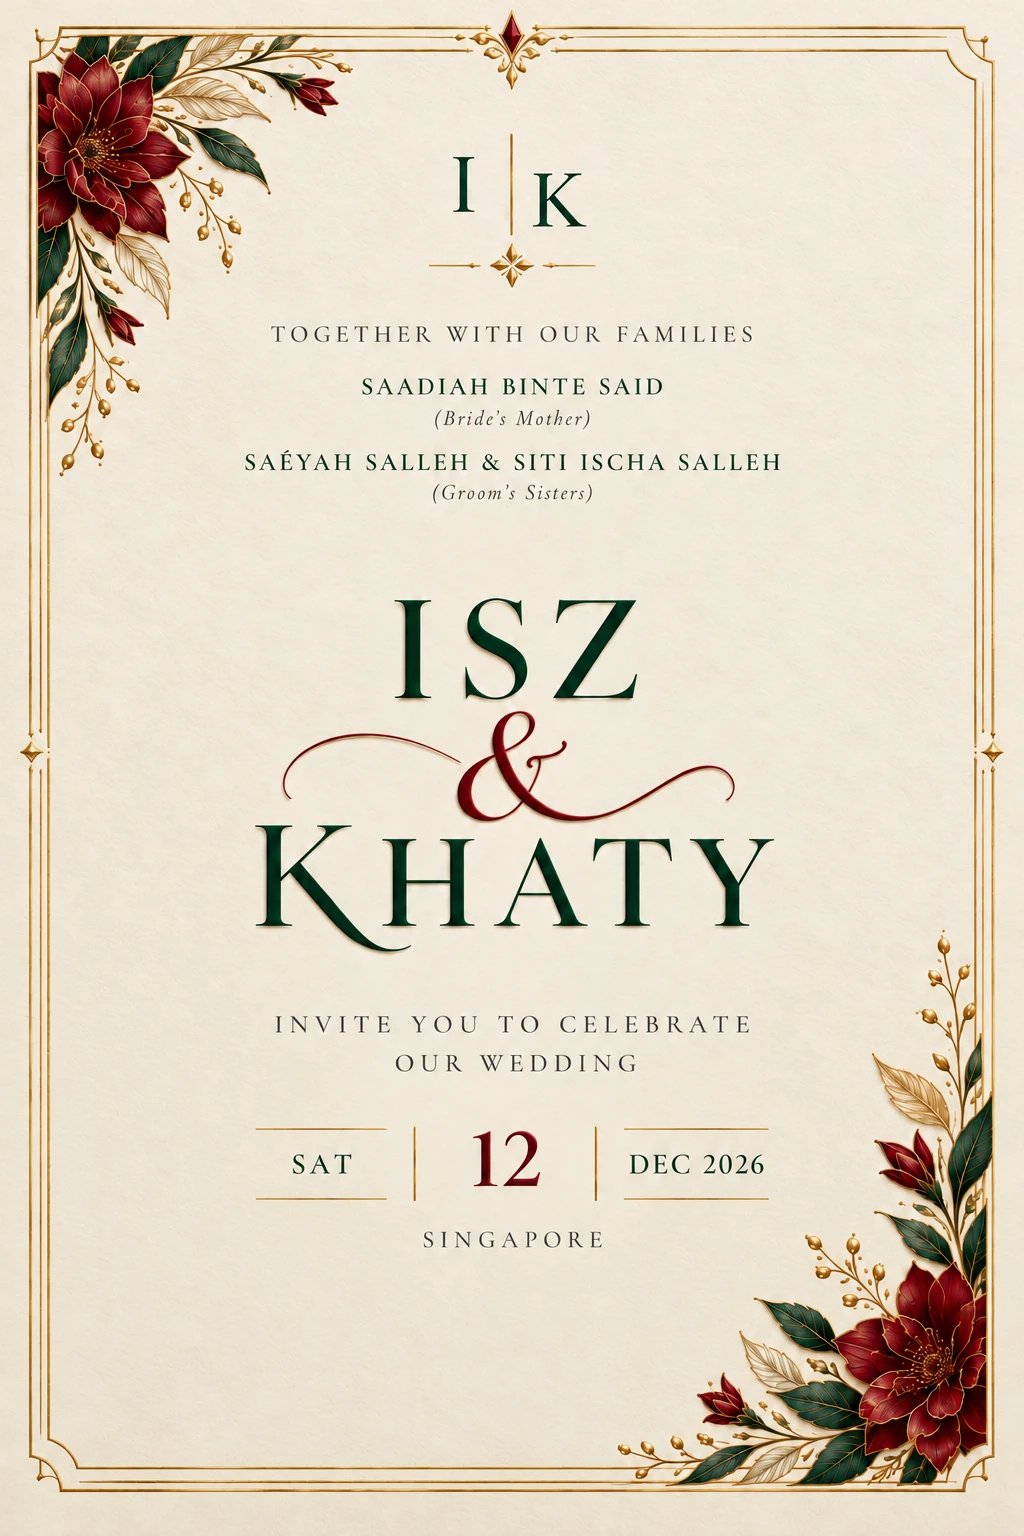
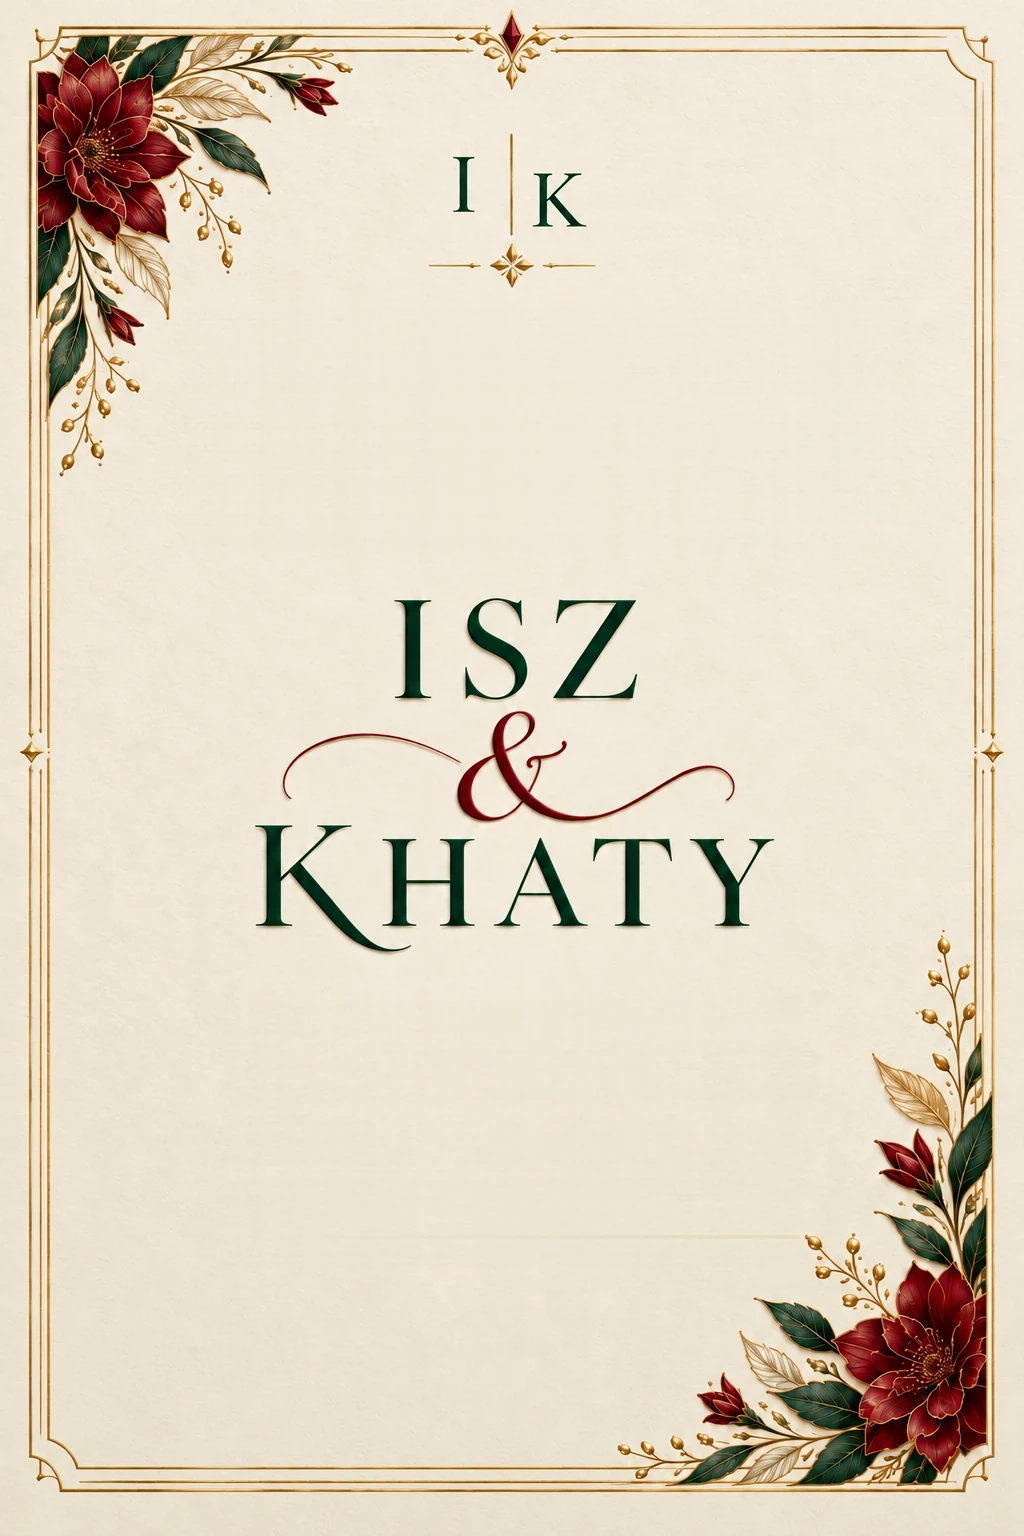
Envelope card: larger wording set in type over a blank card base
The card artwork keeps its frame, flowers, I|K and the big names; the family names,
invitation line, date and place are now real text at a larger size, filled from config.

Claude-Session: https://claude.ai/code/session_01CnhEfaxWDKGB4U8MzmqPVX

diff --git a/css/envelope.css b/css/envelope.css
@@ -468,6 +468,102 @@
   pointer-events: none;
 }
 
+/* The card's wording, set over the blank artwork. Everything is sized in --u, one pixel of the
+   1024 x 1536 artwork at the card's size, so it scales with the card through the whole opening. */
+.card { --u: calc(var(--W) * 0.8 / 1024); }
+.card__text {
+  position: absolute;
+  inset: 0;
+  color: var(--color-ink);
+  font-family: var(--font-body);
+  font-weight: 700;
+  text-transform: uppercase;
+  text-align: center;
+  pointer-events: none;
+}
+.ct {
+  position: absolute;
+  left: calc(var(--u) * 142);
+  width: calc(var(--u) * 740);
+  margin: 0;
+}
+.ct-eyebrow {
+  top: calc(var(--u) * 304);
+  left: calc(var(--u) * 172);
+  width: calc(var(--u) * 680);
+  font-size: calc(var(--u) * 31);
+  line-height: 1.2;
+  letter-spacing: 0.1em;
+  text-indent: 0.1em;
+}
+.ct-families {
+  top: calc(var(--u) * 348);
+  left: calc(var(--u) * 202);
+  width: calc(var(--u) * 620);
+}
+.ct-fam { margin-bottom: calc(var(--u) * 8); }
+.ct-fam__names {
+  display: block;
+  font-family: var(--font-display);
+  font-size: calc(var(--u) * 37);
+  line-height: 1.14;
+  letter-spacing: 0.04em;
+  color: var(--color-emerald-deep, #08402f);
+  text-wrap: balance;
+}
+.ct-fam__role {
+  display: block;
+  margin-top: calc(var(--u) * 1);
+  font-size: calc(var(--u) * 30);
+  line-height: 1.2;
+  font-style: italic;
+  letter-spacing: 0.04em;
+  text-transform: none;
+}
+.ct-invite {
+  top: calc(var(--u) * 1002);
+  font-size: calc(var(--u) * 37);
+  line-height: 1.32;
+  letter-spacing: 0.13em;
+  text-indent: 0.13em;
+}
+.ct-date {
+  position: absolute;
+  left: calc(var(--u) * 222);
+  width: calc(var(--u) * 580);
+  top: calc(var(--u) * 1112);
+  display: grid;
+  grid-template-columns: 1fr auto 1fr;
+  align-items: center;
+}
+.ct-date__side {
+  display: block;
+  padding: calc(var(--u) * 20) calc(var(--u) * 14);
+  border-block: calc(var(--u) * 2.5) solid var(--color-gold);
+  font-size: calc(var(--u) * 40);
+  line-height: 1;
+  letter-spacing: 0.06em;
+  color: var(--color-emerald-deep, #08402f);
+  white-space: nowrap;
+}
+.ct-date__day {
+  display: block;
+  padding: 0 calc(var(--u) * 30);
+  margin: 0 calc(var(--u) * -1);
+  border-inline: calc(var(--u) * 2.5) solid var(--color-gold);
+  font-family: var(--font-display);
+  font-size: calc(var(--u) * 112);
+  line-height: 1.05;
+  color: var(--color-ruby);
+}
+.ct-place {
+  top: calc(var(--u) * 1262);
+  font-size: calc(var(--u) * 35);
+  line-height: 1.2;
+  letter-spacing: 0.22em;
+  text-indent: 0.22em;
+}
+
 .card__sheen {
   position: absolute;
   inset: -10% -70%;

diff --git a/index.html b/index.html
@@ -132,9 +132,21 @@
               <div class="card-rig" id="card-rig">
                 <div class="card__shadow" id="card-shadow"></div>
                 <article class="card" id="envelope-card">
-                  <!-- the supplied card artwork (2:3). Its words are part of the picture; the card's
-                       spoken description is built from config.js (render.js) -->
+                  <!-- the supplied card artwork (2:3), blank apart from the frame, flowers, I|K and the
+                       big names; the rest of the wording is set in type below (filled from config.js).
+                       The card's spoken description is built in render.js. -->
                   <img class="card__art" src="assets/images/invitation-card.webp" alt="" decoding="async" width="1024" height="1536">
+                  <div class="card__text" aria-hidden="true">
+                    <p class="ct ct-eyebrow" id="ct-eyebrow"></p>
+                    <div class="ct ct-families" id="ct-families"></div>
+                    <p class="ct ct-invite" id="ct-invite"></p>
+                    <div class="ct ct-date">
+                      <span class="ct-date__side" id="ct-weekday"></span>
+                      <span class="ct-date__day" id="ct-day"></span>
+                      <span class="ct-date__side" id="ct-month"></span>
+                    </div>
+                    <p class="ct ct-place" id="ct-place"></p>
+                  </div>
                   <div class="card__sheen" id="card-sheen"></div>
                 </article>
               </div>

diff --git a/js/render.js b/js/render.js
@@ -61,8 +61,34 @@
   if (env.revealHint) set("scene-next", env.revealHint);
 
   // ---- The card that rises from the envelope ----------------------------------
-  // Its lettering is the supplied artwork (assets/images/invitation-card.webp); what
-  // is built here is the description a screen reader hears, from the same config.
+  // The artwork carries the frame, flowers, I|K and the big names; the rest of the wording is
+  // set in type over it (css/envelope.css), filled here, and the description a screen reader
+  // hears is built from the same config.
+  set("ct-eyebrow", envCard.eyebrow || "");
+  const famBox = $("ct-families");
+  if (famBox) {
+    famBox.replaceChildren(...(envCard.families || []).map((f) => {
+      const d = document.createElement("div");
+      d.className = "ct-fam";
+      const n = document.createElement("span");
+      n.className = "ct-fam__names";
+      n.textContent = f.names;
+      d.appendChild(n);
+      if (f.role) {
+        const r = document.createElement("span");
+        r.className = "ct-fam__role";
+        r.textContent = `(${f.role})`;
+        d.appendChild(r);
+      }
+      return d;
+    }));
+  }
+  setLines("ct-invite", lines(envCard.invite));
+  set("ct-weekday", weekday.slice(0, 3));
+  set("ct-day", dayNum);
+  set("ct-month", `${monthName.slice(0, 3)} ${year}`);
+  set("ct-place", envCard.place || "");
+
   const card = $("envelope-card");
   if (card) {
     card.setAttribute("aria-label",

diff --git a/tools/make_card_base.py b/tools/make_card_base.py
@@ -1,0 +1,65 @@
+"""Make the card's blank base: the supplied card artwork with its small lettering removed.
+
+    python3 tools/make_card_base.py [path/to/invitation-card-original.webp]
+
+The card that slides out of the envelope is the supplied artwork, but its lettering is tiny at
+the size the card is shown. This keeps everything of the artwork (frame, flowers, I|K monogram
+and the big "ISZ & Khaty") and paints plain paper over the family names, the invitation line,
+the date row and the place, which css/envelope.css then sets in real, larger type.
+
+Paper is rebuilt from the cream either side of each blanked area plus the artwork's own fine
+grain (taken from a clean strip), so no patch shows. Writes assets/images/invitation-card.webp.
+Needs numpy and Pillow.
+"""
+import os, sys
+import numpy as np
+from PIL import Image, ImageFilter
+
+HERE = os.path.dirname(os.path.abspath(__file__))
+SRC = sys.argv[1] if len(sys.argv) > 1 else os.path.join(HERE, "source", "invitation-card-original.webp")
+OUT = os.path.join(HERE, "..", "assets", "images", "invitation-card.webp")
+
+im = Image.open(SRC).convert("RGB")
+a = np.asarray(im).astype(np.float32)
+H, W, _ = a.shape  # 1536 x 1024
+
+# (x0, y0, x1, y1) of the areas to blank
+AREAS = [
+    (190, 305, 885, 552),    # "Together with our families", the two family lines
+    (235, 1000, 800, 1268),  # invitation line, SAT | 12 | DEC 2026 row, SINGAPORE
+]
+
+# the artwork's grain, from a clean strip of paper between the family block and the names
+strip = a[522:588, 200:830]
+grain = strip - np.asarray(Image.fromarray(strip.astype(np.uint8)).filter(ImageFilter.GaussianBlur(6))).astype(np.float32)
+
+out = a.copy()
+for (x0, y0, x1, y1) in AREAS:
+    h, w = y1 - y0, x1 - x0
+    # paper colour: blend what lies just above and below, and just left and right
+    top = a[y0 - 6:y0 - 2, x0:x1].mean(axis=0)            # w x 3
+    bot = a[y1 + 2:y1 + 6, x0:x1].mean(axis=0)
+    left = a[y0:y1, x0 - 6:x0 - 2].mean(axis=1)            # h x 3
+    right = a[y0:y1, x1 + 2:x1 + 6].mean(axis=1)
+    ty = np.linspace(0, 1, h)[:, None, None]
+    tx = np.linspace(0, 1, w)[None, :, None]
+    vert = top[None] * (1 - ty) + bot[None] * ty
+    horz = left[:, None] * (1 - tx) + right[:, None] * tx
+    base = (vert + horz) / 2
+    # grain, tiled with mirroring so edges meet
+    gh, gw, _ = grain.shape
+    reps_y, reps_x = -(-h // gh) + 1, -(-w // gw) + 1
+    row = np.concatenate([grain if i % 2 == 0 else grain[:, ::-1] for i in range(reps_x)], axis=1)
+    tile = np.concatenate([row if i % 2 == 0 else row[::-1] for i in range(reps_y)], axis=0)[:h, :w]
+    patch = base + tile
+    # feathered edge so the patch melts into the surrounding artwork
+    m = np.zeros((H, W), np.float32)
+    m[y0:y1, x0:x1] = 1
+    m = np.asarray(Image.fromarray((m * 255).astype(np.uint8)).filter(ImageFilter.GaussianBlur(5))).astype(np.float32) / 255
+    full = out.copy()
+    full[y0:y1, x0:x1] = patch
+    out = out * (1 - m[..., None]) + full * m[..., None]
+
+res = Image.fromarray(np.clip(out, 0, 255).astype(np.uint8))
+res.save(OUT, quality=90, method=6)
+print(OUT, os.path.getsize(OUT) // 1024, "KB")

diff --git a/README.md b/README.md
@@ -151,11 +151,15 @@ transforms:
    lining inside is a deeper ruby, darker toward the pocket.
 4. **The card** — your supplied card artwork (`assets/images/invitation-card.webp`,
    1024 × 1536), in a slot that clips at the envelope's bottom edge, so it can rise
-   freely above the envelope with its foot still tucked in. Its lettering (the
-   families, the names, "Sat 12 Dec 2026") is part of the picture, so **when a detail
-   changes, replace that image**; the screen-reader description of the card is still
-   built from `config.js`. The card box is 0.8 × 1.2 of the envelope's width: the
-   artwork's 2:3 shape, with the height the animation is built around.
+   freely above the envelope with its foot still tucked in. The picture keeps the
+   frame, flowers, the I|K monogram and the big "ISZ & Khaty"; the smaller wording
+   (families, invitation line, date, place) is real type laid over it in
+   `css/envelope.css`, at a larger size than the artwork's own lettering, and filled
+   from `config.js`, so a changed name, date or place shows without making a new image.
+   (The blank base is made from the original by `tools/make_card_base.py`, which keeps
+   the original in `tools/source/`.) Only the big names are part of the picture: to
+   change them, replace the image. The card box is 0.8 × 1.2 of the envelope's width:
+   the artwork's 2:3 shape, with the height the animation is built around.
 5. **Front pocket** — two side flaps under a folded-up bottom flap, all edged in
    gold foil (the X of gold lines on the closed envelope).
 6. **Flap** — rotates on `rotateX` about its top edge inside a `perspective`
